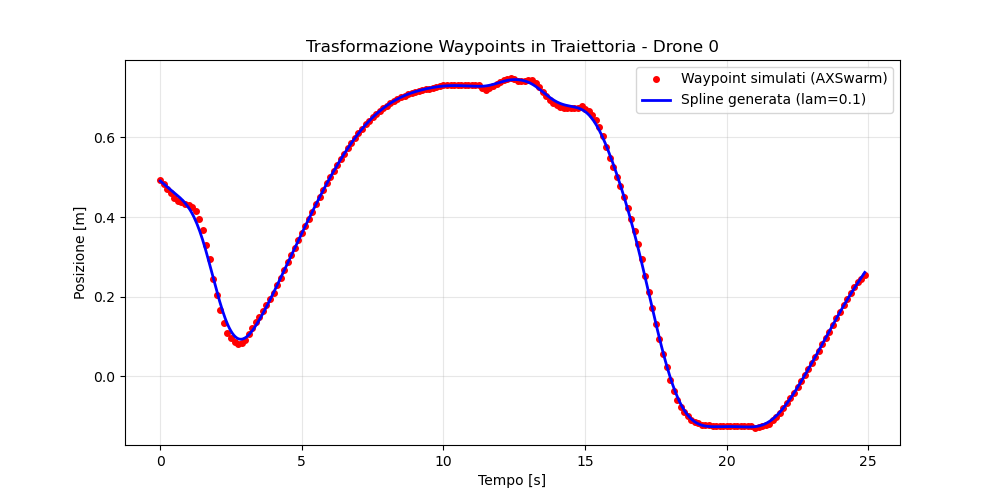
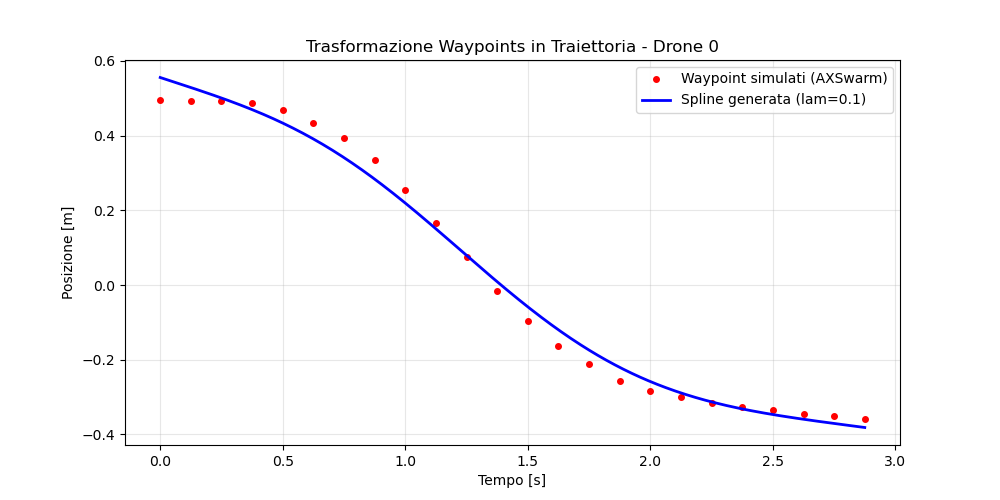
fix: general fixes to remove music

diff --git a/swarm_gpt/ui/ui.py b/swarm_gpt/ui/ui.py
@@ -78,23 +78,36 @@ def create_ui(backend: AppBackend) -> gr.Blocks:
     # Define the UI
     with gr.Blocks(theme=gr.themes.Monochrome()) as ui:
         gr.Markdown(
-            """ <div align="center"> <font size = "50"> SwarmGPT-Primitive""", elem_id="swarmgpt"
+            # """ <div align="center"> <font size = "50"> SwarmGPT-Primitive""", elem_id="swarmgpt"
+            """ <div align="center"> <font size = "50"> SwarmGPT-Command"""
         )
         # Initial window with song selection
         with gr.Row():
             padding_column()
             with gr.Column():
-                song_input = gr.Dropdown(
-                    choices=backend.songs + backend.presets, label="Select song"
+                # song_input = gr.Dropdown(
+                #     choices=backend.songs + backend.presets, label="Select song"
+                # )
+                user_prompt_input = gr.Textbox(
+                    label = "What should do drones?",
+                    placeholder = "E.g.: Form a triangle at 1.5m high for 10 seconds...",
+                    lines=2
                 )
             with gr.Column():
                 prompt_choices = list(backend.choreographer.prompts.keys())
-                gr.Dropdown(
+                # gr.Dropdown(
+                #     choices=prompt_choices,
+                #     label="Enter prompt type:",
+                #     visible=False,
+                #     interactive=True,
+                # )
+                prompt_mode = gr.Dropdown(
                     choices=prompt_choices,
-                    label="Enter prompt type:",
-                    visible=False,
+                    label="Prompt Mode:",
+                    value=prompt_choices[0] if prompt_choices else None,
                     interactive=True,
                 )
+            padding_column()
         # Interface during data processing and simulation
         with gr.Row():
             with gr.Column():
@@ -118,17 +131,23 @@ def create_ui(backend: AppBackend) -> gr.Blocks:
                 alter_button = gr.Button("Refine/Modify the choreography", visible=False)
             padding_column()
 
+        # with gr.Row():
+        #     padding_column()
+        #     with gr.Column():
+        #         select_song_button = gr.Button("Choose another song", visible=False)
+        #     padding_column()
+
         with gr.Row():
             padding_column()
             with gr.Column():
-                select_song_button = gr.Button("Choose another song", visible=False)
+                new_command_button = gr.Button("New Command", visible=False)
             padding_column()
 
         with gr.Row():
             padding_column()
             with gr.Column():
                 start_button = gr.Button("Send selections to LLM", visible=False)
-                deploy_button = gr.Button("Let the Crazyflies dance", visible=False)
+                deploy_button = gr.Button("Let the Crazyflies move", visible=False)
                 save_preset_button = gr.Button("Save preset", visible=False)
                 show_output = gr.Checkbox(
                     label="Display conversation with LLM",
@@ -139,17 +158,32 @@ def create_ui(backend: AppBackend) -> gr.Blocks:
                 )
             padding_column()
 
+        user_prompt_input.change(
+            lambda x: gr.update(visible=len(x) > 0),
+            inputs = [user_prompt_input],
+            outputs = [start_button]
+        )
+
         # Define the UI control flow when the user interacts with the UI elements
         # Song selection flow. On select, the start button and the show output checkbox appear.
-        song_input.select(update_visibility([True, True]), [], [start_button, show_output])
+        # song_input.select(update_visibility([True, True]), [], [start_button, show_output])
         # Start button flow. On click, the song input and start button disappear
         # The choreo message appears
         start_button_flow = start_button.click(
-            update_visibility([False, False, True]), [], [song_input, start_button, choreo_msg]
+            # update_visibility([False, False, True]), [], [song_input, start_button, choreo_msg]
+            update_visibility([False, False, True, True]), 
+            [], 
+            [user_prompt_input, start_button, choreo_msg, show_output]
         )
         # The song is handed to the backend start function, and the output of `start` is piped into
         # the chatbot.
-        start_button_flow = start_button_flow.success(backend.initial_prompt, song_input, chatbot)
+        start_button_flow = start_button_flow.success(
+            backend.initial_prompt, 
+            #song_input, 
+            #chatbot
+            inputs=[user_prompt_input],
+            outputs=chatbot
+        )
         # The choreo message disappears and the simulate, modify and select song buttons appear
         start_button_flow = start_button_flow.success(
             update_visibility([False, True, True, True, True, True]),
@@ -158,7 +192,7 @@ def create_ui(backend: AppBackend) -> gr.Blocks:
                 choreo_msg,
                 sim_button,
                 alter_button,
-                select_song_button,
+                new_command_button,
                 deploy_button,
                 save_preset_button,
             ],
@@ -215,7 +249,7 @@ def create_ui(backend: AppBackend) -> gr.Blocks:
                 replay_sim_button,
                 alter_button,
                 deploy_button,
-                select_song_button,
+                new_command_button,
                 progress_bar,
             ],
         )
@@ -235,7 +269,9 @@ def create_ui(backend: AppBackend) -> gr.Blocks:
         )
 
         replay_sim_flow = replay_sim_flow.success(
-            update_visibility([False, True]), [], [replay_msg, select_song_button]
+            update_visibility([False, True]), [], [replay_msg, new_command_button]
         )
-        select_song_button.click(None, js="window.location.reload()")
+        # select_song_button.click(None, js="window.location.reload()")
+        new_command_button.click(None, js="window.location.reload()")
+
     return ui

diff --git a/swarm_gpt/core/choreographer.py b/swarm_gpt/core/choreographer.py
@@ -58,8 +58,8 @@ class Choreographer:
         self.num_drones = 0
         self.messages = []
         # Load prompts from file
-        prompt = "prompts_no_music"
-        # prompt = "motion_primitive_prompts" if self.use_motion_primitives else "prompts"
+        # prompt = "prompts_no_music"
+        prompt = "prompts_prim" if self.use_motion_primitives else "prompts_no_music"
         with open(Path(__file__).resolve().parents[1] / f"data/{prompt}.yaml", "r") as f:
             self.prompts = yaml.safe_load(f)
         self.load_drone_config(config_file)
@@ -140,23 +140,33 @@ class Choreographer:
         """
         # Convert to cm for LLM compatibility
         starting_pos = [(pos * 100).astype(int).tolist() for pos in self.starting_pos.values()]
-        wave_eqn = None
+        # wave_eqn = None
         if self.use_motion_primitives:
+            num_waypoints = 6
+            wave_eqn = ""
             # Load the YAML file
+            latex_file = Path(__file__).resolve().parents[1] / "data/latex_eqn.yaml"
+            with open(latex_file, "r") as file:
+                data = yaml.safe_load(file)
+                wave_eqn = data.get("wave", "")
+        else:
+            wave_eqn = None
             latex_file = Path(__file__).resolve().parents[1] / "data/latex_eqn.yaml"
             with open(latex_file, "r") as file:
                 data = yaml.safe_load(file)
                 wave_eqn = data.get("wave")
 
         prompt_kwargs = {
-            "user_command": user_command,
+            "prompt": user_command,
             "num_drones": self.num_drones,
             "starting_pos": starting_pos,
             "lim_lower": self.lim_lower * 100,
             "lim_upper": self.lim_upper * 100,
+            "max_distances": self.settings["axswarm"]["vel_max"] * 0.5,
+            "num_waypoints": num_waypoints,
             "wave_eqn": wave_eqn,
         }
-        return self.prompts["user_command_initial"].format(**prompt_kwargs)
+        return self.prompts["user_initial"].format(**prompt_kwargs)
 
     def _call_openai(self, messages: list[dict[str, str]]) -> str:
         response = client.chat.completions.create(
@@ -246,22 +256,26 @@ class Choreographer:
             raise LLMResponseProcessingError(f"Choreography plan is missing primitive at {missing}")
 
         motion_primitives = {}
-        for i in choreography:
+        for i in sorted(choreography.keys()):
+        # for i in choreography:
             motion_primitives[i] = []
             moves = choreography[i].strip(" ;").split(";")
             for move in moves:
+                move = move.strip()
                 fn_name = move.split("(")[0].strip(" -\n")
                 if fn_name == "PLAN":
                     motion_primitives[i].append({fn_name: ()})
                     continue
-                if fn_name not in motion_primitives_collection:
+                if fn_name.lower() not in motion_primitives_collection:
                     raise LLMResponseProcessingError(
                         f"Unknown motion primitive '{fn_name}' at timestep {i}"
                     )
                 # Get the arguments after "(", remove comments, and add a , before the closing ) to
                 # enforce that one argument functions are length 1 tuples.
                 try:
-                    fn_args = ast.literal_eval("(" + move.split("(")[1].split("#")[0][:-1] + ",)")
+                    # fn_args = ast.literal_eval("(" + move.split("(")[1].split("#")[0][:-1] + ",)")
+                    raw_args = move.split("(")[1].split(")")[0]
+                    fn_args = ast.literal_eval("(" + raw_args + ",)")
                 except (SyntaxError, ValueError) as e:
                     raise LLMFormatError(
                         f"Cannot interpret arguments of '{move}' at timestep {i}. Failed with "

diff --git a/swarm_gpt/core/backend.py b/swarm_gpt/core/backend.py
@@ -119,7 +119,7 @@ class AppBackend:
         return [s.name for s in (self.root_path / "swarm_gpt/data/presets").glob("*")]
 
     @self_correct(n_retries=2)
-    def initial_prompt(self, song: str, *, response: str | None = None) -> list[dict[str, str]]:
+    def initial_prompt(self, text: str, *, response: str | None = None) -> list[dict[str, str]]:
         """Set the song and generate the choreography.
 
         Args:
@@ -129,16 +129,17 @@ class AppBackend:
         Returns:
             The chat history as a list of dictionaries with the role and content.
         """
-        logger.info(f"Generating initial choreography for song: {song}")
+        logger.info(f"Generating initial choreography for user command: {text}")
         self.choreographer.reset_history()
         prompt = self.choreographer.format_initial_prompt(text)
         print("backend.py - initial_prompt: prompt = ")
         print(prompt)
 
         fixed_response = response is not None
+        preset = False
         # if preset := song in self.presets:  # Preset was provided
         if response is None:
-            logger.debug(f"Using LLM to generate choreography for song: {song_name}")
+            logger.debug(f"Using LLM to generate choreography for user command: {text}")
             response = self.choreographer.generate_choreography(prompt)
         else:
             logger.debug(f"Using predefined response: {response}")
@@ -246,7 +247,7 @@ class AppBackend:
                 make_smoothing_spline(t, controls[:, j], lam=lam) for j in range(3)
             ]
         if gui:  # Rerun the simulation of the resulting trajectories with GUI
-            simulate_spline(self.splines, self.settings, t[-1], self.music_manager, gui)
+            simulate_spline(self.splines, self.settings, t[-1], getattr(self, "music_manager", None), gui)
         logger.info("Simulation successful")
         return sim_data
 

diff --git a/swarm_gpt/core/sim.py b/swarm_gpt/core/sim.py
@@ -198,13 +198,18 @@ def simulate_axswarm(
         print(f"Errore nella generazione del grafico: {e}")
     # --------------------------------------
 
+    states_array = np.stack(states) if len(states) > 0 else np.zeros((1, sim.n_drones, 6))
+    controls_array = np.stack(controls) if len(controls) > 0 else np.zeros((1, sim.n_drones, 6))
+
     sim_log = {
         "num_drones": sim.n_drones,
         "log_freq": solver_settings.freq,
         "sim_freq": sim.freq,
         "timestamps": np.arange(n_steps) / sim.control_freq,
-        "states": np.array(states),
-        "controls": np.array(controls),
+        # "states": np.array(states),
+        # "controls": np.array(controls),
+        "states": states_array,
+        "controls": controls_array,
         "waypoints": waypoints,
         "simulation_freq": sim.freq,
         "amswarm_every_n_steps": solve_every_n_steps,
